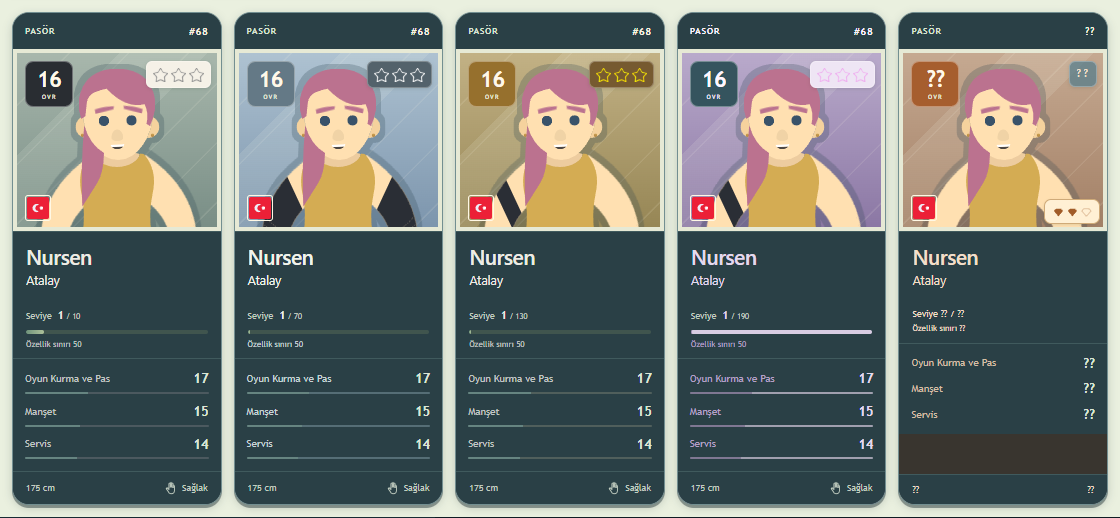
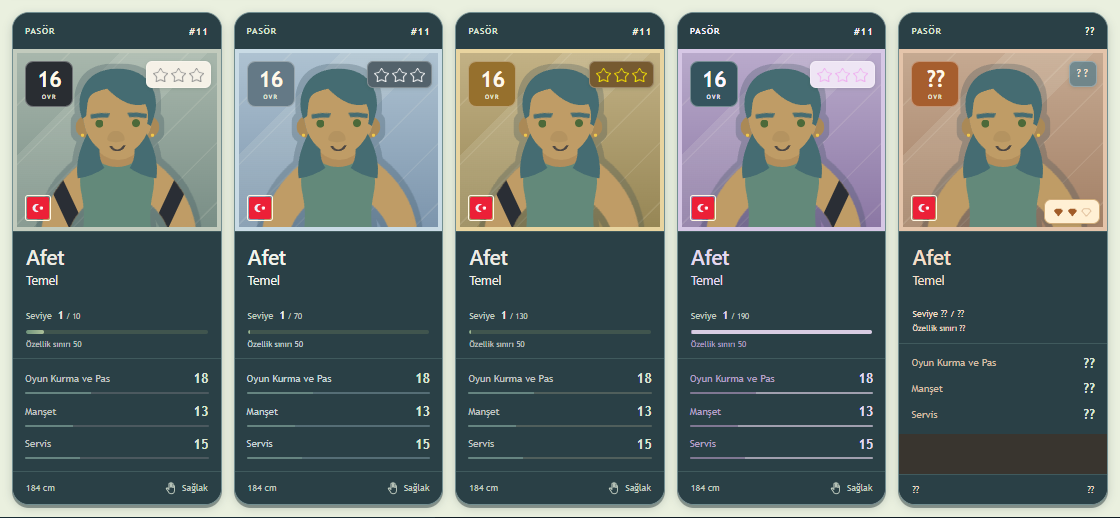
Tint matte portrait frames to match every card material

diff --git a/index-beta.html b/index-beta.html
@@ -1,5 +1,5 @@
 <!doctype html>
-<html lang="tr" class="desktop-beta"><head><script src="desktop-beta-storage.js?v=df309e5c0cea"></script><script src="cheat-defaults.js?v=3f3b429b351f"></script><script src="flow-preview-environment.js?v=bd84173813bd"></script><meta charset="utf-8"><meta name="viewport" content="width=device-width,initial-scale=1,viewport-fit=cover"><meta name="theme-color" content="#72c8e5"><link rel="manifest" href="manifest.webmanifest"><link rel="apple-touch-icon" href="assets/app/apple-touch-icon.png"><meta name="apple-mobile-web-app-capable" content="yes"><meta name="apple-mobile-web-app-title" content="Idle Spiker"><meta name="apple-mobile-web-app-status-bar-style" content="default"><link rel="stylesheet" href="app-display.css?v=07395180a70d"><script src="app-display.js?v=6eab26d2992b" defer></script><title>Idle Spiker · Masaüstü Beta</title><link rel="stylesheet" href="menu.css?v=c016fb44e844"><link rel="stylesheet" href="menu-game.css?v=7f40c8954076"><link rel="stylesheet" href="team.css?v=bcffe6b92c1a"><link rel="stylesheet" href="league-season.css?v=c5e4b44d88a2"><style>#bootScreen{position:fixed;inset:0;max-width:480px;margin-inline:auto;z-index:10000;display:grid;place-content:center;justify-items:center;gap:8px;background:#fff3d7;color:#547c83;font-family:system-ui,sans-serif}#bootScreen strong{order:0;font-size:30px;letter-spacing:2px}#bootScreen strong span{color:#bb995b}#bootScreen p{order:1;font-size:12px;margin:0;color:#819383}#bootPepper{transform:translateZ(0);backface-visibility:hidden;contain:paint;object-fit:contain;order:2;margin-top:12px;visibility:visible;width:260px;height:212px;border:0;background:transparent;pointer-events:none}#bootScreen img{order:-1;margin-bottom:10px;width:48px;height:48px;animation:boot-bounce 1.2s ease-in-out infinite}@keyframes boot-bounce{50%{transform:translateY(-12px) rotate(18deg)}}@media(prefers-reduced-motion:reduce){#bootScreen img{animation:none}}</style><link rel="stylesheet" href="club-journey.css?v=a8162af5edc1"><link rel="stylesheet" href="bal-stage.css?v=03e79f9db703"><script src="season-clock.js?v=c90a74233800"></script><script src="bal-recovery.js?v=59d7a7b23c62"></script><script src="weekly-season-migration.js?v=c91052e58aec"></script><script src="number-ui.js?v=a24b5930e991"></script><link rel="stylesheet" href="theme.css?v=3c0c28bd21fb"><script src="theme.js?v=3046f3da7b5c"></script><link rel="stylesheet" href="achievements.css?v=2a8661c0d2be"><link rel="stylesheet" href="division-three.css?v=ef35af114b54"><link rel="stylesheet" href="social-screen.css?v=0bf69406736d"><link rel="stylesheet" href="league-players.css?v=86e88a43a3b5"><link rel="stylesheet" href="language.css?v=b027c2a552b8"><script src="language-data.js?v=3d3af7f60753"></script><script src="language.js?v=6352cc5dd035"></script><link rel="stylesheet" href="player-skills.css?v=da608137e96c"><link rel="stylesheet" href="styles/ui/player-club-card.css?v=082efbda1448"><link rel="stylesheet" href="styles/ui/transfer-center.css?v=80c355595696"><script src="scripts/ui/dialog-navigation.js?v=0988251be4a1" defer></script><link rel="stylesheet" href="social-journey.css?v=381c58c2dc22"><link rel="stylesheet" href="next-match-card.css?v=d739901623ff"><link rel="stylesheet" href="social-follower-counter.css?v=038892551d63"><link rel="stylesheet" href="player-profile.css?v=89c574b694fe"><link rel="stylesheet" href="ui-icons.css?v=b5ce6adfd485"><link rel="stylesheet" href="flow-effects.css?v=f82bf838ab8c"><link rel="stylesheet" href="board-doodles.css?v=85c5f17bdbe1"><link rel="stylesheet" href="board-presentation.css?v=3ae360fc348f"><link rel="stylesheet" href="progression-visuals.css?v=abd1b1d35d38"><link rel="stylesheet" href="flow-lanes.css?v=d6d148cc7fd3"><link rel="stylesheet" href="flow-media-theme.css?v=a959430cbe25"><link rel="stylesheet" href="ui-components.css?v=7b2e2900e58c"><link rel="stylesheet" href="academy.css?v=1f7eb14eaf73"><link rel="stylesheet" href="academy-career.css?v=c24b7b8e9637"><link rel="stylesheet" href="legendary-unlock-preview.css?v=247b90f08604"><script src="point-music-rules.js?v=8ce930b25ffd"></script><link rel="stylesheet" href="desktop-beta.css?v=43345844dd65"></head>
+<html lang="tr" class="desktop-beta"><head><script src="desktop-beta-storage.js?v=df309e5c0cea"></script><script src="cheat-defaults.js?v=3f3b429b351f"></script><script src="flow-preview-environment.js?v=bd84173813bd"></script><meta charset="utf-8"><meta name="viewport" content="width=device-width,initial-scale=1,viewport-fit=cover"><meta name="theme-color" content="#72c8e5"><link rel="manifest" href="manifest.webmanifest"><link rel="apple-touch-icon" href="assets/app/apple-touch-icon.png"><meta name="apple-mobile-web-app-capable" content="yes"><meta name="apple-mobile-web-app-title" content="Idle Spiker"><meta name="apple-mobile-web-app-status-bar-style" content="default"><link rel="stylesheet" href="app-display.css?v=07395180a70d"><script src="app-display.js?v=6eab26d2992b" defer></script><title>Idle Spiker · Masaüstü Beta</title><link rel="stylesheet" href="menu.css?v=c016fb44e844"><link rel="stylesheet" href="menu-game.css?v=7f40c8954076"><link rel="stylesheet" href="team.css?v=bcffe6b92c1a"><link rel="stylesheet" href="league-season.css?v=c5e4b44d88a2"><style>#bootScreen{position:fixed;inset:0;max-width:480px;margin-inline:auto;z-index:10000;display:grid;place-content:center;justify-items:center;gap:8px;background:#fff3d7;color:#547c83;font-family:system-ui,sans-serif}#bootScreen strong{order:0;font-size:30px;letter-spacing:2px}#bootScreen strong span{color:#bb995b}#bootScreen p{order:1;font-size:12px;margin:0;color:#819383}#bootPepper{transform:translateZ(0);backface-visibility:hidden;contain:paint;object-fit:contain;order:2;margin-top:12px;visibility:visible;width:260px;height:212px;border:0;background:transparent;pointer-events:none}#bootScreen img{order:-1;margin-bottom:10px;width:48px;height:48px;animation:boot-bounce 1.2s ease-in-out infinite}@keyframes boot-bounce{50%{transform:translateY(-12px) rotate(18deg)}}@media(prefers-reduced-motion:reduce){#bootScreen img{animation:none}}</style><link rel="stylesheet" href="club-journey.css?v=a8162af5edc1"><link rel="stylesheet" href="bal-stage.css?v=03e79f9db703"><script src="season-clock.js?v=c90a74233800"></script><script src="bal-recovery.js?v=59d7a7b23c62"></script><script src="weekly-season-migration.js?v=c91052e58aec"></script><script src="number-ui.js?v=a24b5930e991"></script><link rel="stylesheet" href="theme.css?v=3c0c28bd21fb"><script src="theme.js?v=3046f3da7b5c"></script><link rel="stylesheet" href="achievements.css?v=2a8661c0d2be"><link rel="stylesheet" href="division-three.css?v=ef35af114b54"><link rel="stylesheet" href="social-screen.css?v=0bf69406736d"><link rel="stylesheet" href="league-players.css?v=86e88a43a3b5"><link rel="stylesheet" href="language.css?v=b027c2a552b8"><script src="language-data.js?v=3d3af7f60753"></script><script src="language.js?v=6352cc5dd035"></script><link rel="stylesheet" href="player-skills.css?v=da608137e96c"><link rel="stylesheet" href="styles/ui/player-club-card.css?v=a2f24b904192"><link rel="stylesheet" href="styles/ui/transfer-center.css?v=80c355595696"><script src="scripts/ui/dialog-navigation.js?v=0988251be4a1" defer></script><link rel="stylesheet" href="social-journey.css?v=381c58c2dc22"><link rel="stylesheet" href="next-match-card.css?v=d739901623ff"><link rel="stylesheet" href="social-follower-counter.css?v=038892551d63"><link rel="stylesheet" href="player-profile.css?v=89c574b694fe"><link rel="stylesheet" href="ui-icons.css?v=b5ce6adfd485"><link rel="stylesheet" href="flow-effects.css?v=f82bf838ab8c"><link rel="stylesheet" href="board-doodles.css?v=85c5f17bdbe1"><link rel="stylesheet" href="board-presentation.css?v=3ae360fc348f"><link rel="stylesheet" href="progression-visuals.css?v=abd1b1d35d38"><link rel="stylesheet" href="flow-lanes.css?v=d6d148cc7fd3"><link rel="stylesheet" href="flow-media-theme.css?v=a959430cbe25"><link rel="stylesheet" href="ui-components.css?v=7b2e2900e58c"><link rel="stylesheet" href="academy.css?v=1f7eb14eaf73"><link rel="stylesheet" href="academy-career.css?v=c24b7b8e9637"><link rel="stylesheet" href="legendary-unlock-preview.css?v=247b90f08604"><script src="point-music-rules.js?v=8ce930b25ffd"></script><link rel="stylesheet" href="desktop-beta.css?v=43345844dd65"></head>
 <body><div id="bootScreen" role="status" aria-live="polite"><img src="assets/balls/atlas-1.png" alt="" width="48" height="48"><strong>IDLE<span>SPIKER</span></strong><p>Kulüp hazırlanıyor…</p></div><script>window.bootStartedAt=performance.now();window.bootFallback=setTimeout(function(){document.getElementById("bootScreen")?.remove()},10000)</script><div class="shell"><aside class="rail"><a class="brand" href="index-beta.html" aria-label="Idle Spiker ana menü"><svg viewBox="0 0 40 40" aria-hidden="true"><circle cx="20" cy="20" r="15"/><path d="M7 13q15 0 18 22M19 5q-5 13-12 19M34 17q-12-3-19 13"/></svg></a><span class="rail-word">IDLE SPIKER</span><a class="rail-icon active" href="index-beta.html" aria-label="Kulüp merkezi" title="Kulüp merkezi">⌂</a><span class="rail-bottom">01 / CLUB</span></aside>
 <div class="content"><header class="topbar"><a href="index-beta.html" class="wordmark">IDLE<span>SPIKER</span><small>VOLEYBOL KULÜBÜ</small></a><nav aria-label="Ana gezinme"><span class="nav-current">Kulüp merkezi</span></nav><button id="settingsButton" class="settings-button" type="button" aria-label="Ayarları aç">⚙ Ayarlar</button></header>
 <main><div class="dashboard"><section id="clubPanel" class="club-panel" aria-label="Kulüp departmanları"><div class="section-top"><div><span class="eyebrow">BİZİM KULÜP · AŞAMA 1</span></div></div>

diff --git a/index.html b/index.html
@@ -1,5 +1,5 @@
 <!doctype html>
-<html lang="tr"><head><script src="cheat-defaults.js?v=3f3b429b351f"></script><script src="flow-preview-environment.js?v=bd84173813bd"></script><meta charset="utf-8"><meta name="viewport" content="width=device-width,initial-scale=1,viewport-fit=cover"><meta name="theme-color" content="#72c8e5"><link rel="manifest" href="manifest.webmanifest"><link rel="apple-touch-icon" href="assets/app/apple-touch-icon.png"><meta name="apple-mobile-web-app-capable" content="yes"><meta name="apple-mobile-web-app-title" content="Idle Spiker"><meta name="apple-mobile-web-app-status-bar-style" content="default"><link rel="stylesheet" href="app-display.css?v=07395180a70d"><script src="app-display.js?v=6eab26d2992b" defer></script><title>Idle Spiker · Kulüp Merkezi</title><link rel="stylesheet" href="menu.css?v=c016fb44e844"><link rel="stylesheet" href="menu-game.css?v=7f40c8954076"><link rel="stylesheet" href="team.css?v=bcffe6b92c1a"><link rel="stylesheet" href="league-season.css?v=c5e4b44d88a2"><style>#bootScreen{position:fixed;inset:0;max-width:480px;margin-inline:auto;z-index:10000;display:grid;place-content:center;justify-items:center;gap:8px;background:#fff3d7;color:#547c83;font-family:system-ui,sans-serif}#bootScreen strong{order:0;font-size:30px;letter-spacing:2px}#bootScreen strong span{color:#bb995b}#bootScreen p{order:1;font-size:12px;margin:0;color:#819383}#bootPepper{transform:translateZ(0);backface-visibility:hidden;contain:paint;object-fit:contain;order:2;margin-top:12px;visibility:visible;width:260px;height:212px;border:0;background:transparent;pointer-events:none}#bootScreen img{order:-1;margin-bottom:10px;width:48px;height:48px;animation:boot-bounce 1.2s ease-in-out infinite}@keyframes boot-bounce{50%{transform:translateY(-12px) rotate(18deg)}}@media(prefers-reduced-motion:reduce){#bootScreen img{animation:none}}</style><link rel="stylesheet" href="club-journey.css?v=a8162af5edc1"><link rel="stylesheet" href="bal-stage.css?v=03e79f9db703"><script src="season-clock.js?v=c90a74233800"></script><script src="bal-recovery.js?v=59d7a7b23c62"></script><script src="weekly-season-migration.js?v=c91052e58aec"></script><script src="number-ui.js?v=a24b5930e991"></script><link rel="stylesheet" href="theme.css?v=3c0c28bd21fb"><script src="theme.js?v=3046f3da7b5c"></script><link rel="stylesheet" href="achievements.css?v=2a8661c0d2be"><link rel="stylesheet" href="division-three.css?v=ef35af114b54"><link rel="stylesheet" href="social-screen.css?v=0bf69406736d"><link rel="stylesheet" href="league-players.css?v=86e88a43a3b5"><link rel="stylesheet" href="language.css?v=b027c2a552b8"><script src="language-data.js?v=3d3af7f60753"></script><script src="language.js?v=6352cc5dd035"></script><link rel="stylesheet" href="player-skills.css?v=da608137e96c"><link rel="stylesheet" href="styles/ui/player-club-card.css?v=082efbda1448"><link rel="stylesheet" href="styles/ui/transfer-center.css?v=80c355595696"><script src="scripts/ui/dialog-navigation.js?v=0988251be4a1" defer></script><link rel="stylesheet" href="social-journey.css?v=381c58c2dc22"><link rel="stylesheet" href="next-match-card.css?v=d739901623ff"><link rel="stylesheet" href="social-follower-counter.css?v=038892551d63"><link rel="stylesheet" href="player-profile.css?v=89c574b694fe"><link rel="stylesheet" href="ui-icons.css?v=b5ce6adfd485"><link rel="stylesheet" href="flow-effects.css?v=f82bf838ab8c"><link rel="stylesheet" href="board-doodles.css?v=85c5f17bdbe1"><link rel="stylesheet" href="board-presentation.css?v=3ae360fc348f"><link rel="stylesheet" href="progression-visuals.css?v=abd1b1d35d38"><link rel="stylesheet" href="flow-lanes.css?v=d6d148cc7fd3"><link rel="stylesheet" href="flow-media-theme.css?v=a959430cbe25"><link rel="stylesheet" href="ui-components.css?v=7b2e2900e58c"><link rel="stylesheet" href="academy.css?v=1f7eb14eaf73"><link rel="stylesheet" href="academy-career.css?v=c24b7b8e9637"><link rel="stylesheet" href="legendary-unlock-preview.css?v=247b90f08604"><script src="point-music-rules.js?v=8ce930b25ffd"></script><link rel="stylesheet" href="playtest-recorder.css?v=6bbab40bb134"></head>
+<html lang="tr"><head><script src="cheat-defaults.js?v=3f3b429b351f"></script><script src="flow-preview-environment.js?v=bd84173813bd"></script><meta charset="utf-8"><meta name="viewport" content="width=device-width,initial-scale=1,viewport-fit=cover"><meta name="theme-color" content="#72c8e5"><link rel="manifest" href="manifest.webmanifest"><link rel="apple-touch-icon" href="assets/app/apple-touch-icon.png"><meta name="apple-mobile-web-app-capable" content="yes"><meta name="apple-mobile-web-app-title" content="Idle Spiker"><meta name="apple-mobile-web-app-status-bar-style" content="default"><link rel="stylesheet" href="app-display.css?v=07395180a70d"><script src="app-display.js?v=6eab26d2992b" defer></script><title>Idle Spiker · Kulüp Merkezi</title><link rel="stylesheet" href="menu.css?v=c016fb44e844"><link rel="stylesheet" href="menu-game.css?v=7f40c8954076"><link rel="stylesheet" href="team.css?v=bcffe6b92c1a"><link rel="stylesheet" href="league-season.css?v=c5e4b44d88a2"><style>#bootScreen{position:fixed;inset:0;max-width:480px;margin-inline:auto;z-index:10000;display:grid;place-content:center;justify-items:center;gap:8px;background:#fff3d7;color:#547c83;font-family:system-ui,sans-serif}#bootScreen strong{order:0;font-size:30px;letter-spacing:2px}#bootScreen strong span{color:#bb995b}#bootScreen p{order:1;font-size:12px;margin:0;color:#819383}#bootPepper{transform:translateZ(0);backface-visibility:hidden;contain:paint;object-fit:contain;order:2;margin-top:12px;visibility:visible;width:260px;height:212px;border:0;background:transparent;pointer-events:none}#bootScreen img{order:-1;margin-bottom:10px;width:48px;height:48px;animation:boot-bounce 1.2s ease-in-out infinite}@keyframes boot-bounce{50%{transform:translateY(-12px) rotate(18deg)}}@media(prefers-reduced-motion:reduce){#bootScreen img{animation:none}}</style><link rel="stylesheet" href="club-journey.css?v=a8162af5edc1"><link rel="stylesheet" href="bal-stage.css?v=03e79f9db703"><script src="season-clock.js?v=c90a74233800"></script><script src="bal-recovery.js?v=59d7a7b23c62"></script><script src="weekly-season-migration.js?v=c91052e58aec"></script><script src="number-ui.js?v=a24b5930e991"></script><link rel="stylesheet" href="theme.css?v=3c0c28bd21fb"><script src="theme.js?v=3046f3da7b5c"></script><link rel="stylesheet" href="achievements.css?v=2a8661c0d2be"><link rel="stylesheet" href="division-three.css?v=ef35af114b54"><link rel="stylesheet" href="social-screen.css?v=0bf69406736d"><link rel="stylesheet" href="league-players.css?v=86e88a43a3b5"><link rel="stylesheet" href="language.css?v=b027c2a552b8"><script src="language-data.js?v=3d3af7f60753"></script><script src="language.js?v=6352cc5dd035"></script><link rel="stylesheet" href="player-skills.css?v=da608137e96c"><link rel="stylesheet" href="styles/ui/player-club-card.css?v=a2f24b904192"><link rel="stylesheet" href="styles/ui/transfer-center.css?v=80c355595696"><script src="scripts/ui/dialog-navigation.js?v=0988251be4a1" defer></script><link rel="stylesheet" href="social-journey.css?v=381c58c2dc22"><link rel="stylesheet" href="next-match-card.css?v=d739901623ff"><link rel="stylesheet" href="social-follower-counter.css?v=038892551d63"><link rel="stylesheet" href="player-profile.css?v=89c574b694fe"><link rel="stylesheet" href="ui-icons.css?v=b5ce6adfd485"><link rel="stylesheet" href="flow-effects.css?v=f82bf838ab8c"><link rel="stylesheet" href="board-doodles.css?v=85c5f17bdbe1"><link rel="stylesheet" href="board-presentation.css?v=3ae360fc348f"><link rel="stylesheet" href="progression-visuals.css?v=abd1b1d35d38"><link rel="stylesheet" href="flow-lanes.css?v=d6d148cc7fd3"><link rel="stylesheet" href="flow-media-theme.css?v=a959430cbe25"><link rel="stylesheet" href="ui-components.css?v=7b2e2900e58c"><link rel="stylesheet" href="academy.css?v=1f7eb14eaf73"><link rel="stylesheet" href="academy-career.css?v=c24b7b8e9637"><link rel="stylesheet" href="legendary-unlock-preview.css?v=247b90f08604"><script src="point-music-rules.js?v=8ce930b25ffd"></script><link rel="stylesheet" href="playtest-recorder.css?v=6bbab40bb134"></head>
 <body><div id="bootScreen" role="status" aria-live="polite"><img src="assets/balls/atlas-1.png" alt="" width="48" height="48"><strong>IDLE<span>SPIKER</span></strong><p>Kulüp hazırlanıyor…</p></div><script>window.bootStartedAt=performance.now();window.bootFallback=setTimeout(function(){document.getElementById("bootScreen")?.remove()},10000)</script><div class="shell"><aside class="rail"><a class="brand" href="index.html" aria-label="Idle Spiker ana menü"><svg viewBox="0 0 40 40" aria-hidden="true"><circle cx="20" cy="20" r="15"/><path d="M7 13q15 0 18 22M19 5q-5 13-12 19M34 17q-12-3-19 13"/></svg></a><span class="rail-word">IDLE SPIKER</span><a class="rail-icon active" href="index.html" aria-label="Kulüp merkezi" title="Kulüp merkezi">⌂</a><span class="rail-bottom">01 / CLUB</span></aside>
 <div class="content"><header class="topbar"><a href="index.html" class="wordmark">IDLE<span>SPIKER</span><small>VOLEYBOL KULÜBÜ</small></a><nav aria-label="Ana gezinme"><span class="nav-current">Kulüp merkezi</span></nav><button id="settingsButton" class="settings-button" type="button" aria-label="Ayarları aç">⚙ Ayarlar</button></header>
 <main><div class="dashboard"><section id="clubPanel" class="club-panel" aria-label="Kulüp departmanları"><div class="section-top"><div><span class="eyebrow">BİZİM KULÜP · AŞAMA 1</span></div></div>

diff --git a/card-design-preview.html b/card-design-preview.html
@@ -1,1 +1,1 @@
-<!doctype html><html lang="tr" class="elite-preview-page"><head><meta charset="utf-8"><meta name="viewport" content="width=device-width,initial-scale=1"><title>Oyuncu kartı tasarımları</title><link rel="stylesheet" href="team.css?v=bcffe6b92c1a"><link rel="stylesheet" href="styles/ui/player-club-card.css?v=082efbda1448"><link rel="stylesheet" href="styles/ui/transfer-center.css?v=80c355595696"><link rel="stylesheet" href="ui-components.css?v=7b2e2900e58c"><link rel="stylesheet" href="elite-design-preview.css?v=8690d2b240a5"></head><body><main id="scoutDialog"><section aria-labelledby="cardSeriesTitle"><header class="card-lab-heading"><small>KARTIN GÖRSEL GELİŞİMİ</small><h2 id="cardSeriesTitle">Siyah · Gümüş · Altın · Mor</h2><p>Aynı oyuncu ve aynı OVR. Aşamalar, kartın görünüşünü karşılaştırmak içindir.</p></header><div id="cardProgression" class="card-lab-grid"></div></section><section aria-labelledby="potentialTitle"><header class="card-lab-heading"><small>AKADEMİ · POTANSİYELLİ GENÇLER</small><h2 id="potentialTitle">Geleceği henüz belli değil.</h2><p>Şimdiki OVR görünür. Mezuniyet gücü: ???</p></header><div id="eliteOptions" class="card-lab-grid"></div></section></main><script src="ui-icons-data.js?v=6804bbcfcd59"></script><script src="prospect-potential-rules.js?v=d08455300ece"></script><script src="player-card-presentation.js?v=ab24a8ee8f09"></script><script src="card-lab-template.js?v=f9ce24745e08"></script><script src="elite-design-preview.js?v=c67fcf020e1e"></script></body></html>
+<!doctype html><html lang="tr" class="elite-preview-page"><head><meta charset="utf-8"><meta name="viewport" content="width=device-width,initial-scale=1"><title>Oyuncu kartı tasarımları</title><link rel="stylesheet" href="team.css?v=bcffe6b92c1a"><link rel="stylesheet" href="styles/ui/player-club-card.css?v=a2f24b904192"><link rel="stylesheet" href="styles/ui/transfer-center.css?v=80c355595696"><link rel="stylesheet" href="ui-components.css?v=7b2e2900e58c"><link rel="stylesheet" href="elite-design-preview.css?v=8690d2b240a5"></head><body><main id="scoutDialog"><section aria-labelledby="cardSeriesTitle"><header class="card-lab-heading"><small>KARTIN GÖRSEL GELİŞİMİ</small><h2 id="cardSeriesTitle">Siyah · Gümüş · Altın · Mor</h2><p>Aynı oyuncu ve aynı OVR. Aşamalar, kartın görünüşünü karşılaştırmak içindir.</p></header><div id="cardProgression" class="card-lab-grid"></div></section><section aria-labelledby="potentialTitle"><header class="card-lab-heading"><small>AKADEMİ · POTANSİYELLİ GENÇLER</small><h2 id="potentialTitle">Geleceği henüz belli değil.</h2><p>Şimdiki OVR görünür. Mezuniyet gücü: ???</p></header><div id="eliteOptions" class="card-lab-grid"></div></section></main><script src="ui-icons-data.js?v=6804bbcfcd59"></script><script src="prospect-potential-rules.js?v=d08455300ece"></script><script src="player-card-presentation.js?v=ab24a8ee8f09"></script><script src="card-lab-template.js?v=f9ce24745e08"></script><script src="elite-design-preview.js?v=c67fcf020e1e"></script></body></html>

diff --git a/styles/ui/player-club-card.css b/styles/ui/player-club-card.css
@@ -211,4 +211,11 @@ html[data-theme=dark] .player-card[data-prospect="unknown"] .player-skill-strip{
 /* Approved editor preset: 5px solid expanded shadow at 24%, plus 4px matte frame. */
 .player-card .card-art>img{filter:none}
 html.card-portrait-effect-ready .player-card .card-art>img{filter:url(#cardPortraitShadow)}
-html:not(.elite-preview-page) .player-card.player-card .card-art::after{content:'';display:block!important;position:absolute;inset:0;width:auto;height:auto;transform:none;background:transparent;border:4px solid #e6e9d5;box-sizing:border-box;border-radius:0;opacity:1;z-index:2;pointer-events:none;box-shadow:none}
+html:not(.elite-preview-page) .player-card.player-card .card-art::after{content:'';display:block!important;position:absolute;inset:0;width:auto;height:auto;transform:none;background:transparent;border:4px solid var(--portrait-frame,#c2cbbd);box-sizing:border-box;border-radius:0;opacity:1;z-index:2;pointer-events:none;box-shadow:none}
+
+/* Matte frame tint follows card identity, including concealed prospects. */
+html:not(.elite-preview-page) .player-card{--portrait-frame:#c2cbbd}
+html:not(.elite-preview-page) .player-card[data-card-tier="1"]{--portrait-frame:#c9dbe5}
+html:not(.elite-preview-page) .player-card[data-card-tier="2"]{--portrait-frame:#e8d49f}
+html:not(.elite-preview-page) .player-card:is([data-card-tier="3"],.elite-player){--portrait-frame:#d6c7e5}
+html:not(.elite-preview-page) .player-card[data-prospect="unknown"]{--portrait-frame:#e4c4aa}

diff --git a/DESIGN-SYSTEM.md b/DESIGN-SYSTEM.md
@@ -1025,3 +1025,5 @@ Koyu tema ek uyumluluk: Potansiyel kartların bakır isim/ikincil yazıları koy
 Editör doğrulaması: test-card-editor.cjs gerçek render görüntüsünün kontur ayarıyla değiştiğini, filtre değişiminde portre kaynağının aynı kaldığını, gölge/offset/blur ayarlarını, kademe/potansiyel maskesini, manuel kaydet-yükle-yenilemeyi, oyun kayıt anahtarına dokunulmamasını, bozuk kodun reddini ve JSON indir/yükle turunu test eder. 320/390px taşma kontrolü geçti; desktop ve mobil ekran görüntüleri incelendi.
 
 29 Ekim editör ayarı üretimde: Kontur yerine shadow, 5px alfa genişletme, blur/offset 0, #263e4a ve %24 opaklık; 4px #e6e9d5 mat çerçeve, inset/radius 0, %100 opaklık. Tek paylaşılan SVG filtre belgenin başında bir kez kurulur; maç rendererı etkilenmez. JSON ten/saç/tier bilgileri örnek karakter içindir, oyuncular yeniden renklendirilmez. Kart türlerine özel onaylı C paletleri, desen ve kadraj korunur. Önceki beyaz drop-shadow kaldırıldı.
+
+29 Ekim malzemeye göre mat çerçeve: Ortak 4px kalınlık korunur. Siyah #c2cbbd adaçayı-grafit; gümüş #c9dbe5 çelik mavisi; altın #e8d49f şampanya; mor #d6c7e5 açık lavanta; potansiyel #e4c4aa sıcak bakır. Kademe/prospect veri özniteliğiyle otomatik izler, açık/koyu temada portre zeminleriyle aynı kimliği korur.
